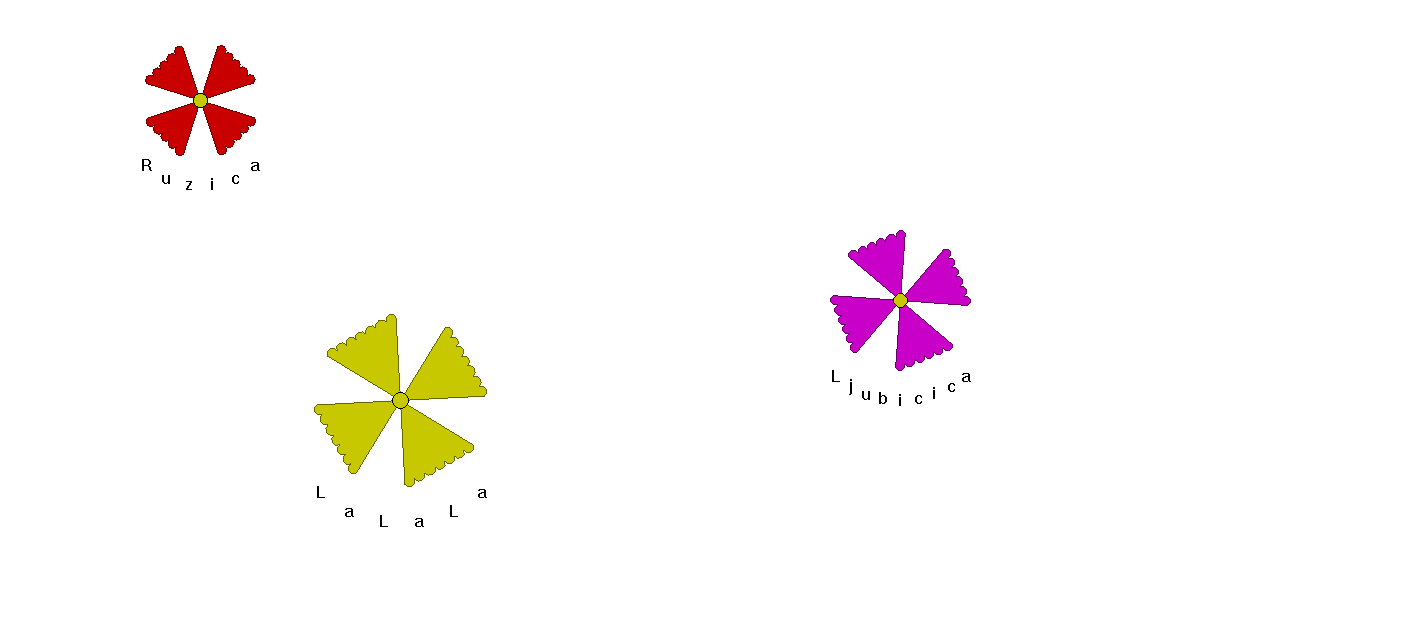
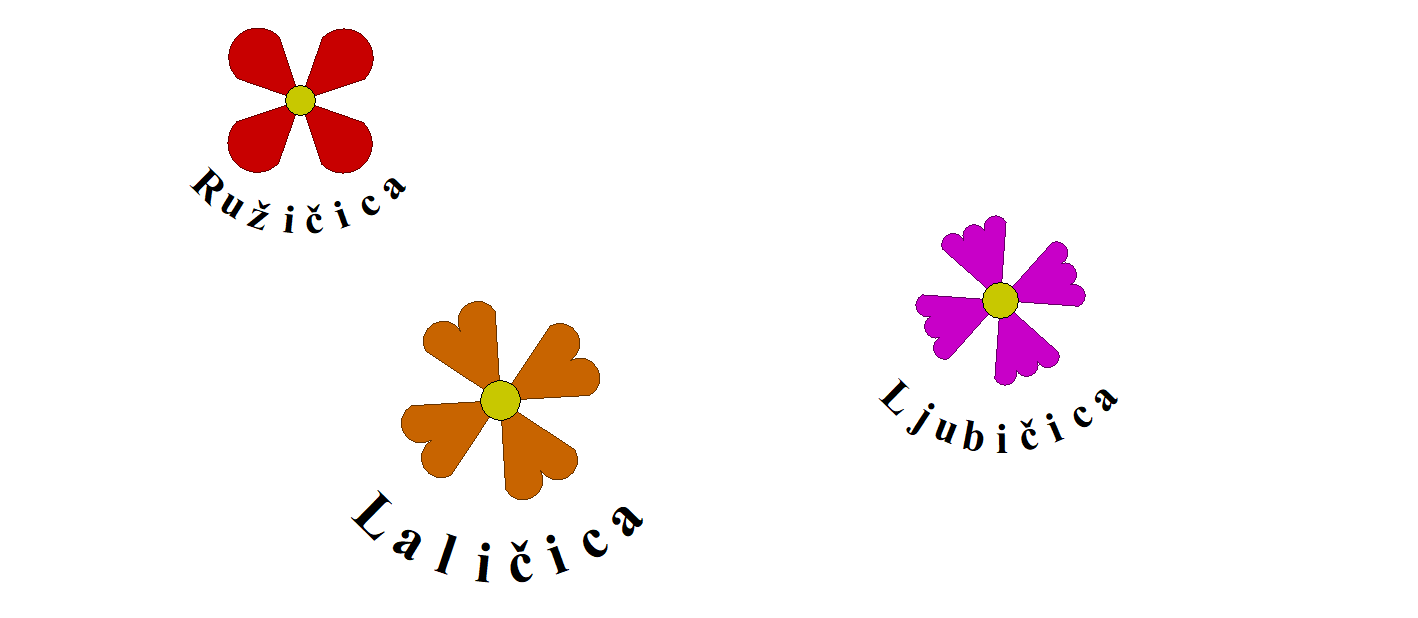
updat

diff --git a/Priprema/April2021/April2021View.cpp b/Priprema/April2021/April2021View.cpp
@@ -1,4 +1,4 @@
-
+
 // April2021View.cpp : implementation of the CApril2021View class
 //
 
@@ -71,13 +71,13 @@ void CApril2021View::OnDraw(CDC* pDC)
 {
 	int oldGM = pDC->SetGraphicsMode(GM_ADVANCED);
 
-	CRect aRect[3] = { CRect(0, 0, 50, 50), CRect(0, 0, 75, 75), CRect(0, 0, 60, 60) };
-	int anArcs[3] = { 5, 7, 6 };
-	COLORREF aClrFill[3] = { RGB(200, 0, 0), RGB(200, 200, 0), RGB(200, 0, 200) },
-		aClrLine[3] = { RGB(100, 0, 0), RGB(100, 100, 0), RGB(100, 0, 100) };
+	CRect aRect[3] = { CRect(0, 0, 60, 60), CRect(0, 0, 80, 80), CRect(0, 0, 70, 70) };
+	int anArcs[3] = { 1, 2, 3 };
+	COLORREF aClrFill[3] = { RGB(200, 0, 0), RGB(200, 100, 0), RGB(200, 0, 200) },
+		aClrLine[3] = { RGB(100, 0, 0), RGB(100, 50, 0), RGB(100, 0, 100) };
 	float aRot[3] = { 3.14 / 4, 3.14 / 6, 3.14 / 8 };
-	CString aStr[3] = { CString("Ruzica"), CString("LaLaLa"), CString("Ljubicica") };
-	CPoint aPts[3] = { { 200, 100 }, { 400, 400 }, { 900, 300 } };
+	CString aStr[3] = { L"Ružičica", L"Laličica", L"Ljubičica" };
+	CPoint aPts[3] = { { 300, 100 }, { 500, 400 }, { 1000, 300 } };
 
 	DrawFlowers(pDC, aRect, anArcs, aClrFill, aClrLine, aRot, aStr, aPts, 3);
 
@@ -134,7 +134,7 @@ void CApril2021View::DrawFlower(CDC* pDC, CRect rect, int nArcs, COLORREF clrFil
 
 	CBrush* oldBrush = pDC->SelectObject(new CBrush(RGB(200, 200, 0)));
 
-	int R = sqrt(pow(rect.Width(), 2) + pow(rect.Height(), 2)) / (2.0 * nArcs) + .5;
+	int R = (double) rect.Height() / 4 + .5;
 	//int R = rect.Width() / (2.0 * nArcs) + .5;
 	pDC->Ellipse(-R, -R, R, R);
 
@@ -153,16 +153,19 @@ void CApril2021View::DrawFlower(CDC* pDC, CRect rect, int nArcs, COLORREF clrFil
 	LOGFONT font{};
 	CSize textSize = pDC->GetTextExtent(str);
 	pDC->GetCurrentFont()->GetLogFont(&font);
-	font.lfHeight = (double)textSize.cy / textSize.cx * arcLength + .5;	
+	font.lfHeight = (double)textSize.cy / textSize.cx * arcLength + .5;
+	font.lfWidth = arcLength / str.GetLength() + 0.5;
+	font.lfPitchAndFamily = FIXED_PITCH | FF_ROMAN;
+	wcscpy_s(font.lfFaceName, CString("Times New Roman"));
 
 	for (int i = 0; i < str.GetLength(); i++)
 	{
 		double x = r * cos(angle),
 			y = r * sin(angle);
-		font.lfEscapement = (-90.5 + (angle * 180 / 3.14)) * 10;
+		font.lfOrientation = (90.5 - (angle * 180 / 3.14)) * 10;
 
 		CFont newFont;
-		newFont.CreateFontIndirectW(&font);
+		newFont.CreateFontIndirect(&font);
 		CFont *oldFont = pDC->SelectObject(&newFont);
 
 		pDC->TextOutW(x + .5, y + .5, CString(str.GetAt(i)));
